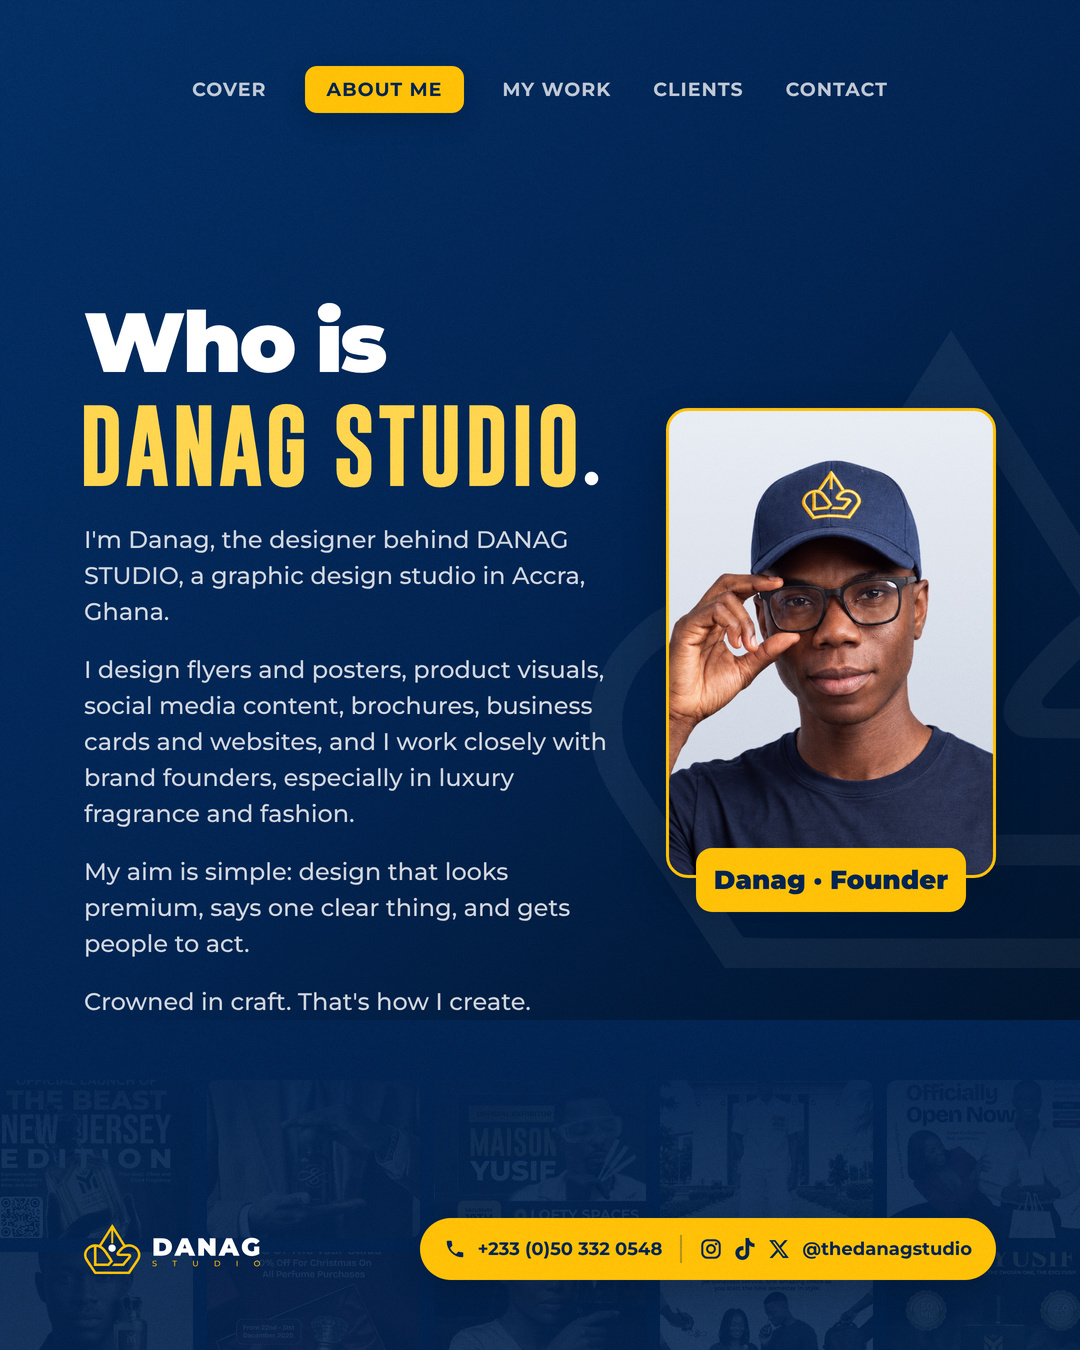
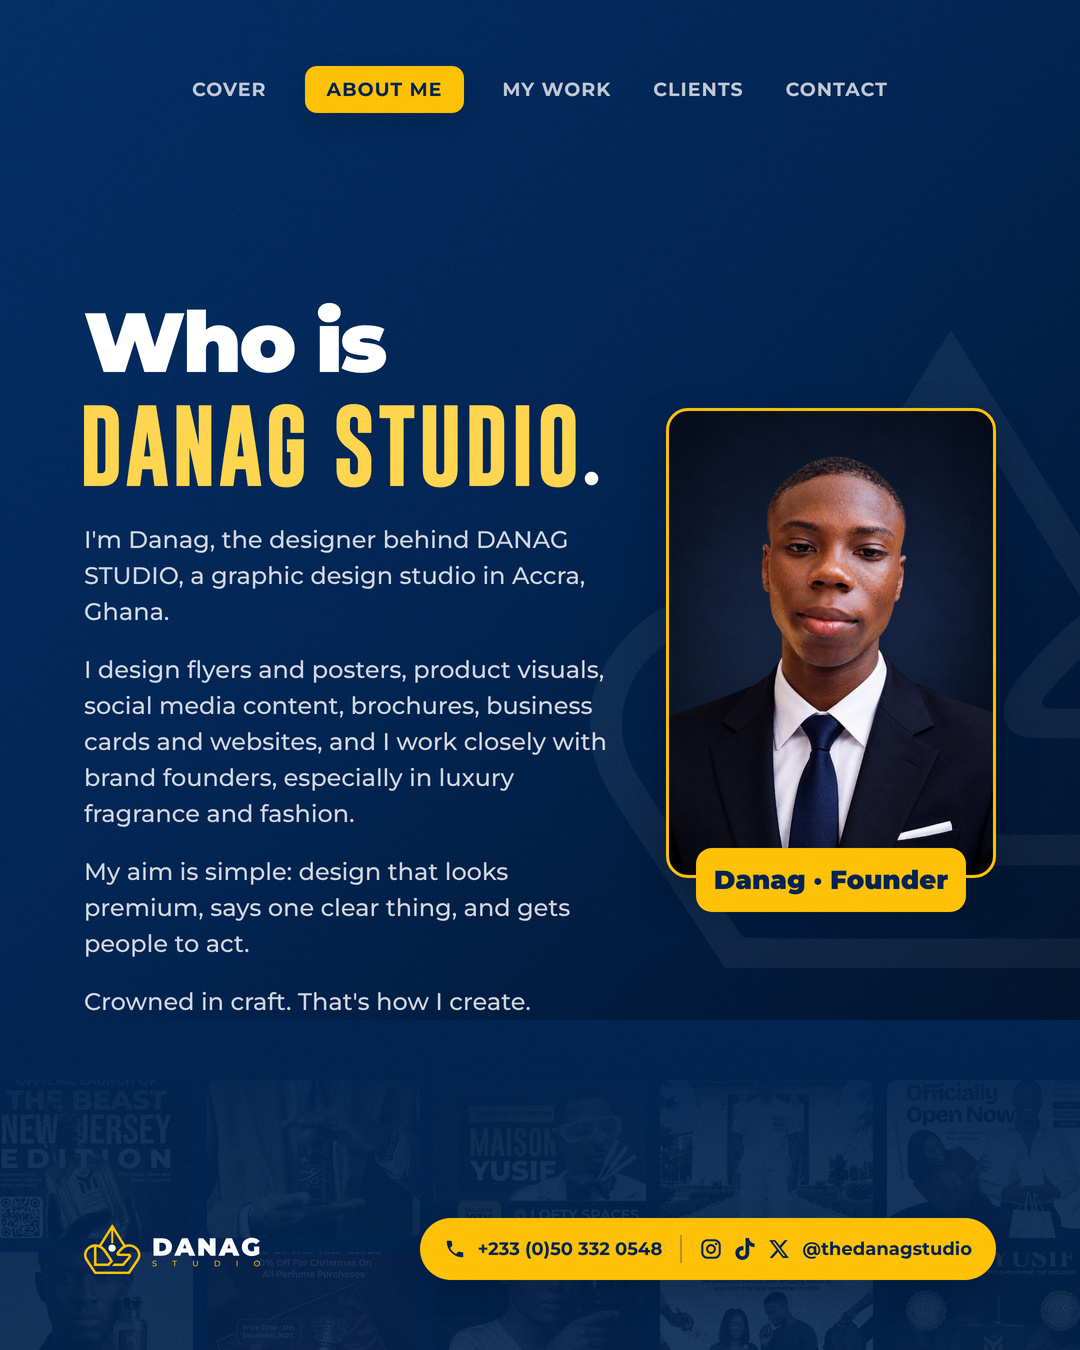
New portrait on site and portfolio About slide
Claude-Session: https://claude.ai/code/session_016a1VN4sEuNiBsko23wNLQZ

Changed region(s): [[0.6111, 0.28, 0.9167, 0.6533]]

diff --git a/site/index.html b/site/index.html
@@ -46,7 +46,7 @@ nav img{height:40px}
 /* about */
 .about .wrap{display:grid;grid-template-columns:.8fr 1.2fr;gap:70px;align-items:center}
 .photo{position:relative;border-radius:28px;overflow:hidden;background:linear-gradient(180deg,#e9edf4,#c9d1de);border:3px solid var(--navy);aspect-ratio:4/5}
-.photo img{width:100%;height:100%;object-fit:cover;object-position:top}
+.photo img{width:100%;height:100%;object-fit:cover;object-position:center 20%}
 .tag{position:absolute;left:20px;right:20px;bottom:20px;background:var(--gold);color:var(--navy);border-radius:16px;padding:14px;text-align:center;font-weight:900}
 .about p{font-weight:500;font-size:17px;line-height:1.7;color:var(--soft);margin-top:16px}
 .script{font-family:Sacramento,cursive;font-size:44px;color:var(--navy);margin-top:14px}
@@ -67,9 +67,9 @@ nav img{height:40px}
 .sites{display:grid;grid-template-columns:1fr 1fr;gap:36px;margin-top:50px}
 .site{position:relative;padding-bottom:30px}
 .site .d{border-radius:16px;overflow:hidden;border:3px solid var(--gold);aspect-ratio:16/10}
-.site .d img{width:100%;height:100%;object-fit:cover;object-position:top}
+.site .d img{width:100%;height:100%;object-fit:cover;object-position:center 20%}
 .site .m{position:absolute;right:-6px;bottom:0;width:24%;aspect-ratio:9/19;border-radius:18px;overflow:hidden;border:4px solid #0b1424;box-shadow:0 20px 40px rgba(0,0,0,.4)}
-.site .m img{width:100%;height:100%;object-fit:cover;object-position:top}
+.site .m img{width:100%;height:100%;object-fit:cover;object-position:center 20%}
 .site a{display:inline-block;margin-top:18px;font-weight:900;color:var(--gold)}
 @media(max-width:820px){.sites{grid-template-columns:1fr}}
 /* contact */
@@ -97,7 +97,7 @@ footer{padding:36px 0;text-align:center;font-size:13px;color:rgba(255,255,255,.6
 </div></section>
 
 <section class="about" id="about"><div class="wrap">
-<div class="photo"><img src="img/danag.png" alt="Danag, founder of DANAG STUDIO"><div class="tag">Danag · Founder</div></div>
+<div class="photo"><img src="img/danag.jpg" alt="Danag, founder of DANAG STUDIO"><div class="tag">Danag · Founder</div></div>
 <div><div class="kick">About me</div><h2><small>Who is</small>DANAG STUDIO<i class="dot"></i></h2>
 <p>I'm Danag, the designer behind DANAG STUDIO, a graphic design studio in Accra, Ghana.</p>
 <p>I design flyers and posters, product visuals, social media content, brochures, business cards and websites, and I work closely with brand founders, especially in luxury fragrance and fashion.</p>

diff --git a/promo/render_folio.py b/promo/render_folio.py
@@ -12,7 +12,7 @@ sys.path.insert(0, B)
 import render_book as rb
 from contacts import IC
 OUT = sys.argv[1]; os.makedirs(OUT, exist_ok=True)
-PORTRAIT = '/home/claude/assets/danag-cutout.png'
+PORTRAIT = '/home/claude/assets/danag-portrait.jpg'
 GOLD = '#FFC107'; F = f'{R}/fonts/'
 NAVYG = 'linear-gradient(135deg,#032F65 0%,#022452 45%,#011631 80%,#010F21 100%)'
 TABS = ['COVER', 'ABOUT ME', 'MY WORK', 'CLIENTS', 'CONTACT']
@@ -101,7 +101,7 @@ SL.append(frame(1, True, f"""<div style="display:flex;align-items:center;gap:44p
  <div style="flex:1">{head('Who is', 'DANAG STUDIO?'.replace('?', ''), True, maxw=520, cap=170)}
   <div style="margin-top:34px;font-weight:500;font-size:24px;line-height:1.5;color:rgba(255,255,255,.82)">{paras}</div></div>
  <div style="width:330px;flex:none">
-  <div class="card" style="height:470px;background:url({pathlib.Path(PORTRAIT).as_uri()}) center 0/150% no-repeat,linear-gradient(180deg,#e9edf4,#c9d1de)"></div>
+  <div class="card" style="height:470px;background:url({pathlib.Path(PORTRAIT).as_uri()}) center 18%/cover no-repeat"></div>
   <div style="margin-top:-30px;position:relative;margin-left:30px;margin-right:30px;background:{GOLD};color:#022452;border-radius:16px;padding:16px 0;text-align:center;font-weight:900;font-size:26px">Danag &#183; Founder</div>
  </div></div>"""))
 # 3-6 work
